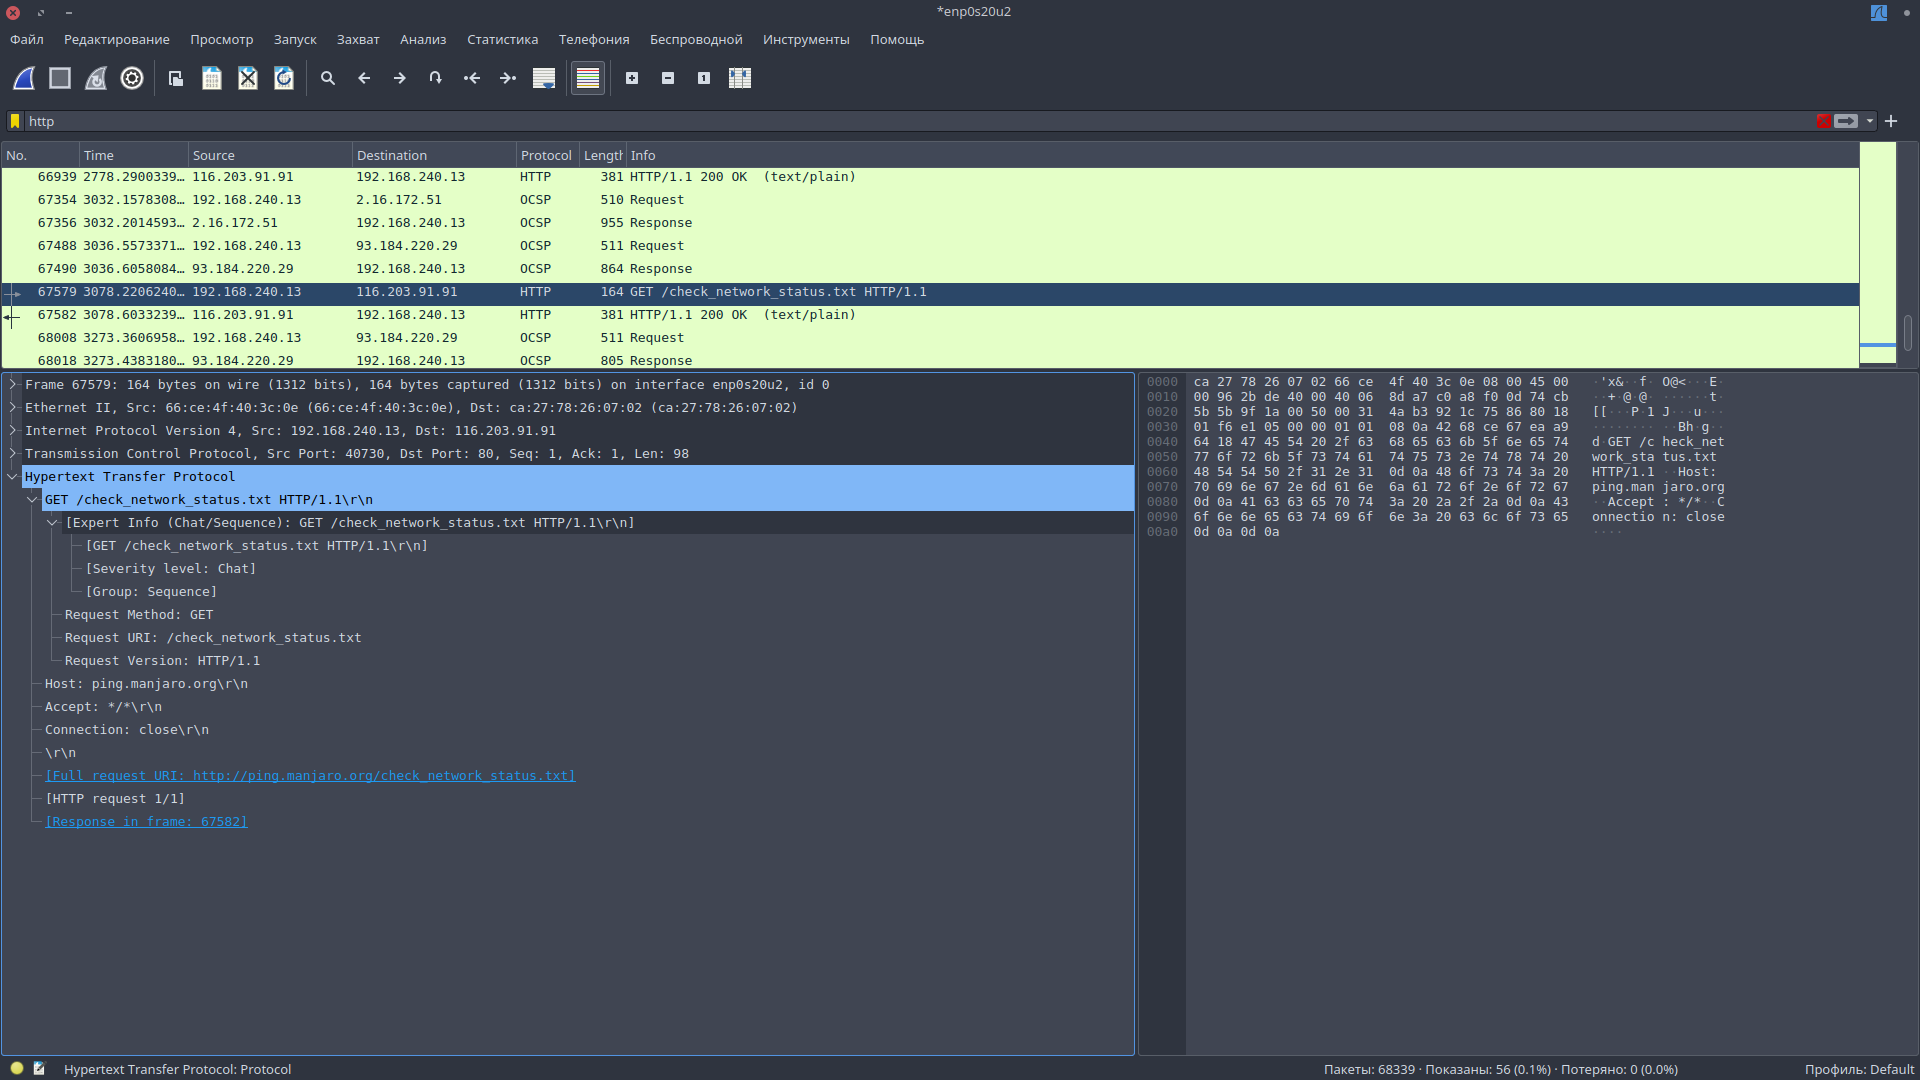
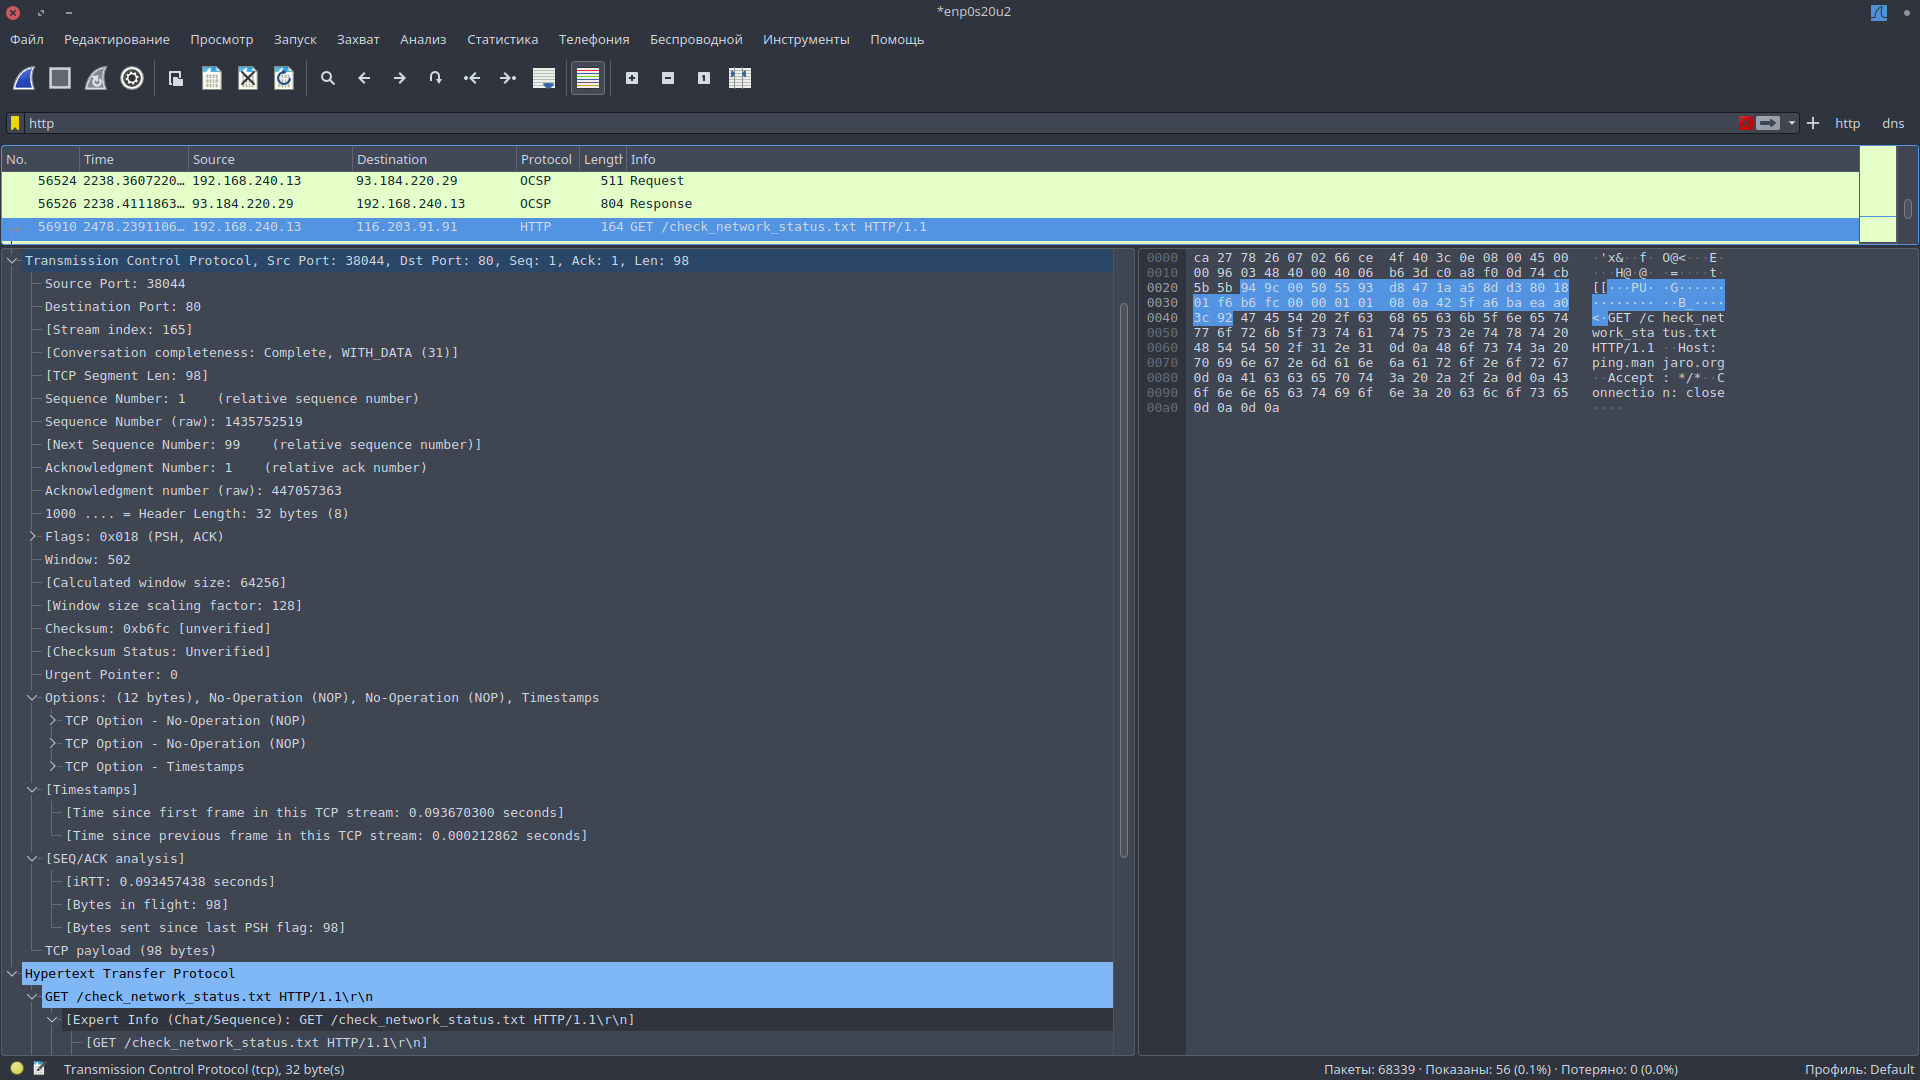
4-01_2 fixed

Changed region(s): [[0.0, 0.0917, 1.0, 1.0], [0.9062, 0.0917, 1.0, 0.1528]]

diff --git a/SNET/4-01/4-01.md b/SNET/4-01/4-01.md
@@ -57,10 +57,8 @@ HTTP запрос.
 Пакет HTTP трафика:
 ![alter_text](images/task_2_http.png "HTTP")
 
-Самые большие отличия на уровне приложений. В на скриншоте с DNS виден ответ на
-запрос IP адреса для api.met.no (это мой plasma виджет, показывающий погоду, делает
-запрос к api Норвежского метеорологического института). В скриншоте с HTTP видны
-метод и заголовки HTTP запроса (NetworkManager
-стучится на http://ping.manjaro.org/check_network_status.txt)
+С точки зрения модели OSI отличие в том, что при передаче пакета HTTP трафика
+присутствует сессионый уровень, который реализуется в протоколe TCP с помощью
+SYN/SYN-ACK/ACK хендшейка. В UDP протоколе такой механизм отсустсвует.
 
 ---
